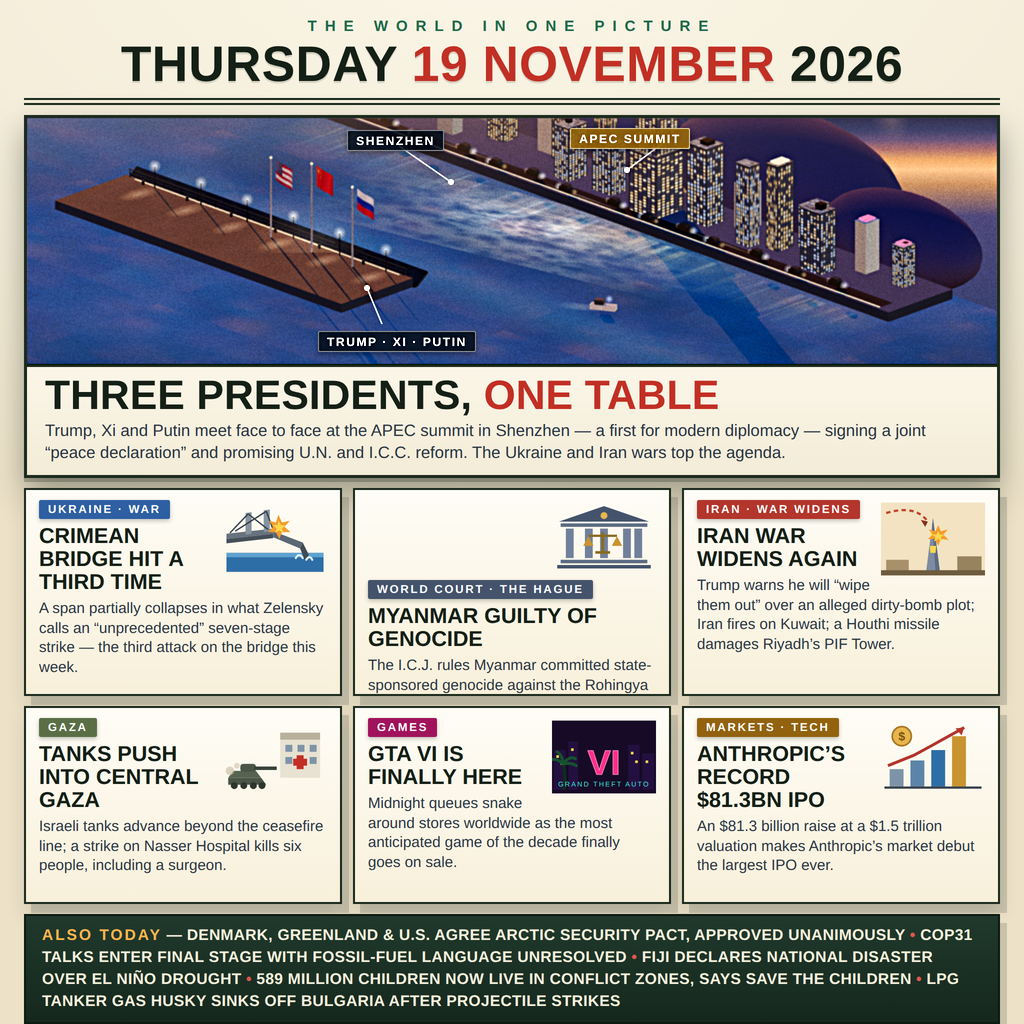
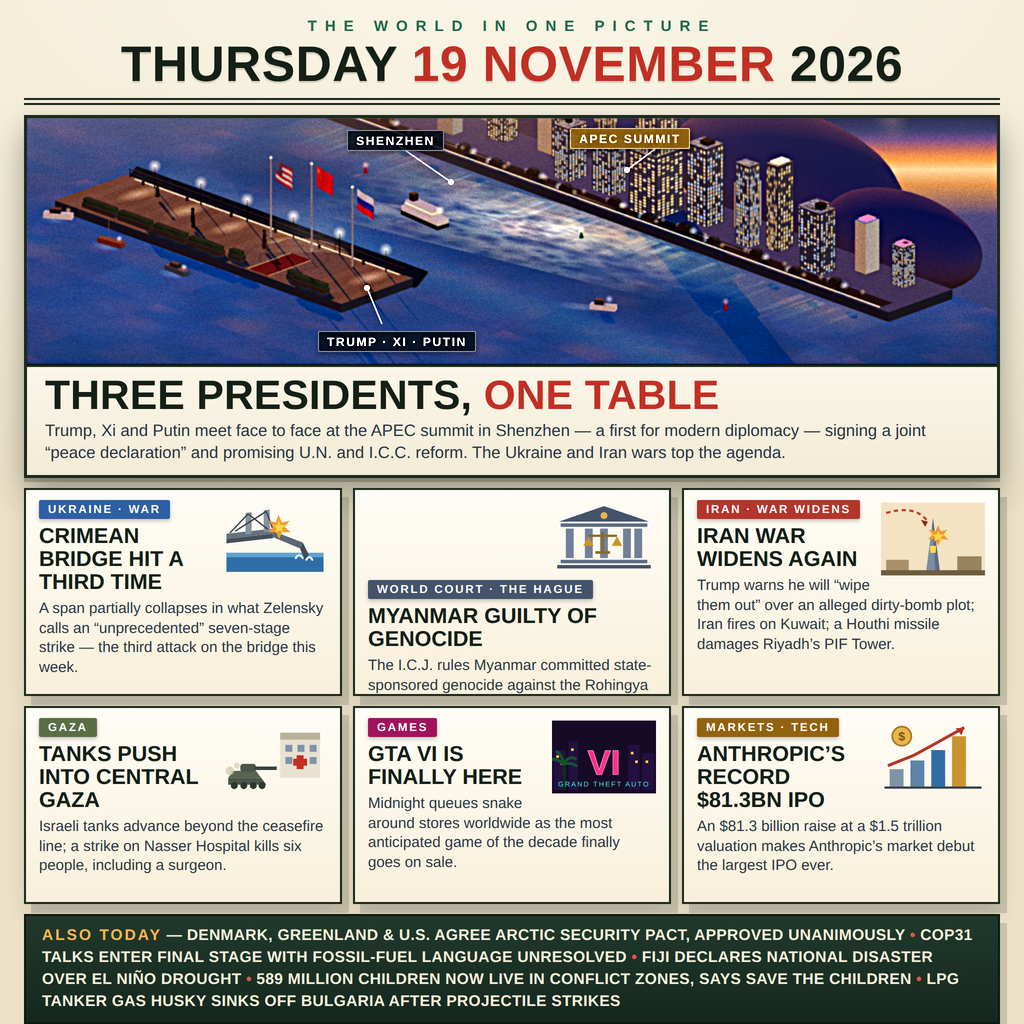
Photoreal composition round: promenade life, mid-bay scale, deeper dusk
- Promenade: patterned plaza disc under the flags, red carpet with
  gold trim, hedge planters along the landward edge, five figure
  silhouettes with a press tripod, stronger lamp pools, zoned stone
- Mid-bay: moored boats with lamps and reflection smears, a lit
  ferry crossing with a V wake, red/green channel buoys
- Far shore: dotted streetlight line along the motorcade boulevard
- Dusk drama: richer sunset saturation in the sky band and PMREM
  equirect, deeper/cooler water against the warm sky, bolder glint
- Finish: hero unsharp A/B-tested at k=1.5 vs 1.4 — 1.5 kept
  (crisper edges, no halo overshoot on scanline probes)
- entry.png 999,012 B, deterministic: two pipeline runs and two
  main.ts runs byte-identical; diff vs previous entry confined to
  the hero frame (x 24-999, y 115-365)

diff --git a/poster.html b/poster.html
@@ -43,7 +43,7 @@
     background: linear-gradient(180deg, #2c3a63 0%, #b06a4e 55%, #26343e 100%);
   }
   .hero-art canvas { position: absolute; inset: 0; width: 100%; height: 100%; display: block;
-    filter: blur(0.5px) saturate(1.05) contrast(1.01); }
+    filter: blur(0.5px) saturate(1.14) contrast(1.03); }
   .hero-art .grain {
     position: absolute; inset: 0; z-index: 1; pointer-events: none;
     opacity: .34; mix-blend-mode: overlay; background-repeat: repeat;
@@ -406,17 +406,17 @@ function buildScene() {
     const grad = sg.createLinearGradient(0, 0, 0, 512);
     grad.addColorStop(0.0, '#1d2447');
     grad.addColorStop(0.05, '#2c3560');
-    grad.addColorStop(0.09, '#5a4a72');
-    grad.addColorStop(0.13, '#a86a68');
-    grad.addColorStop(0.17, '#f0a868');
-    grad.addColorStop(0.21, '#ffc98c');
-    grad.addColorStop(0.27, '#c98a5e');
+    grad.addColorStop(0.09, '#66487c');
+    grad.addColorStop(0.13, '#c06a5c');
+    grad.addColorStop(0.17, '#ff9e50');
+    grad.addColorStop(0.21, '#ffd9a0');
+    grad.addColorStop(0.27, '#dd8f52');
     grad.addColorStop(0.4, '#4a4470');
     grad.addColorStop(1.0, '#2c3a63');
     sg.fillStyle = grad; sg.fillRect(0, 0, 1024, 512);
-    const glow = sg.createRadialGradient(430, 86, 8, 430, 86, 190);
-    glow.addColorStop(0, 'rgba(255,232,180,0.95)');
-    glow.addColorStop(0.3, 'rgba(255,200,125,0.5)');
+    const glow = sg.createRadialGradient(430, 86, 8, 430, 86, 215);
+    glow.addColorStop(0, 'rgba(255,234,185,1.0)');
+    glow.addColorStop(0.3, 'rgba(255,198,120,0.58)');
     glow.addColorStop(1, 'rgba(255,180,100,0)');
     sg.fillStyle = glow; sg.fillRect(0, 0, 1024, 512);
     /* thin cloud bands inside the visible strip, lit from below */
@@ -447,8 +447,8 @@ function buildScene() {
     const grad = eg.createLinearGradient(0, 0, 0, 256);
     grad.addColorStop(0, '#2c3560');
     grad.addColorStop(0.44, '#6a7aa8');
-    grad.addColorStop(0.56, '#f0b478');
-    grad.addColorStop(0.64, '#c98f66');
+    grad.addColorStop(0.56, '#ffab5e');
+    grad.addColorStop(0.64, '#dd8f52');
     grad.addColorStop(1, '#1d2733');
     eg.fillStyle = grad; eg.fillRect(0, 0, 512, 256);
     const blob = eg.createRadialGradient(215, 140, 2, 215, 140, 62);
@@ -569,7 +569,7 @@ function buildScene() {
   const wc = document.createElement('canvas'); wc.width = wc.height = 512;
   {
     const g2 = wc.getContext('2d');
-    mottle(g2, 512, '#256f9d', [
+    mottle(g2, 512, '#1f6391', [
       ['#174d73', 0.18, 40, 130, 26],
       ['#3585b5', 0.2, 30, 100, 22],
       ['#1d5f7d', 0.14, 50, 150, 18],
@@ -669,11 +669,11 @@ function buildScene() {
       tg.beginPath(); tg.arc(cx, cy, r, 0, 7); tg.fill();
     };
     for (let x = -24; x <= 24; x += 3.4) {
-      blob(x, 0.4, 5.4, '7,32,58', 0.16);           // deep channel
-      blob(x, -6.4, 3.6, '232,150,84', 0.12);       // skyline reflection
+      blob(x, 0.4, 5.4, '7,32,58', 0.2);           // deep channel
+      blob(x, -6.4, 3.6, '232,150,84', 0.16);       // skyline reflection
       blob(x, 6.6, 3.2, '70,150,150', 0.13);        // near-shore shallows
     }
-    blob(2.5, -6.6, 4.4, '255,176,102', 0.15);      // afterglow pool
+    blob(2.5, -6.6, 4.4, '255,176,102', 0.19);      // afterglow pool
     /* individual light streaks: each lit tower and crown throws a
        broken reflection down the water toward the viewer, the way
        shore lights smear across a real bay at dusk */
@@ -728,7 +728,7 @@ function buildScene() {
     const glintTex = new THREE.CanvasTexture(gc2);
     glintTex.colorSpace = THREE.SRGBColorSpace;
     const glint = new THREE.Mesh(new THREE.PlaneGeometry(36, 10.5),
-      new THREE.MeshBasicMaterial({ map: glintTex, transparent: true, opacity: 0.44,
+      new THREE.MeshBasicMaterial({ map: glintTex, transparent: true, opacity: 0.52,
         blending: THREE.AdditiveBlending, depthWrite: false }));
     glint.rotation.x = -Math.PI / 2;
     glint.rotation.z = 0.18;
@@ -737,7 +737,7 @@ function buildScene() {
     scene.add(glint);
     /* a narrower, brighter core where the sun's path crosses the bay */
     const glintCore = new THREE.Mesh(new THREE.PlaneGeometry(18, 4.5),
-      new THREE.MeshBasicMaterial({ map: glintTex, transparent: true, opacity: 0.45,
+      new THREE.MeshBasicMaterial({ map: glintTex, transparent: true, opacity: 0.55,
         blending: THREE.AdditiveBlending, depthWrite: false }));
     glintCore.rotation.x = -Math.PI / 2;
     glintCore.rotation.z = 0.18;
@@ -767,11 +767,17 @@ function buildScene() {
     const dc = document.createElement('canvas'); dc.width = 512; dc.height = 256;
     const dg = dc.getContext('2d');
     const drng = mulberry32(4451);
-    mottle(dg, 512, '#4e4a48', [
-      ['#3c3835', 0.25, 30, 110, 22],
-      ['#625c56', 0.2, 24, 90, 18],
-      ['#57504a', 0.18, 16, 60, 20],
-    ], drng, ['#8a8078', 0.22, 300, 2.2]);
+    mottle(dg, 512, '#565149', [
+      ['#413e3a', 0.25, 30, 110, 22],
+      ['#6a635b', 0.2, 24, 90, 18],
+      ['#5d5850', 0.18, 16, 60, 20],
+    ], drng, ['#948a7e', 0.22, 300, 2.2]);
+    /* alternate slabs carry a whisper more or less light, so the
+       paving reads as laid stone zones, not one poured sheet */
+    for (let sx = 0; sx < 512; sx += 64) {
+      dg.fillStyle = (sx / 64) % 2 ? 'rgba(255,240,214,0.05)' : 'rgba(10,10,16,0.05)';
+      dg.fillRect(sx, 0, 64, 256);
+    }
     dg.strokeStyle = 'rgba(16,14,12,0.35)'; dg.lineWidth = 2;
     for (let x = 0; x <= 512; x += 64) { dg.beginPath(); dg.moveTo(x, 0); dg.lineTo(x, 256); dg.stroke(); }
     dg.beginPath(); dg.moveTo(0, 128); dg.lineTo(512, 128); dg.stroke();
@@ -811,7 +817,7 @@ function buildScene() {
     scene.add(bank);
     const foamTex = glowTexture('rgba(235,245,255,0.8)', 'rgba(235,245,255,0)');
     const foam = new THREE.Mesh(new THREE.PlaneGeometry(26.4, 0.55),
-      new THREE.MeshBasicMaterial({ map: foamTex, transparent: true, opacity: 0.16,
+      new THREE.MeshBasicMaterial({ map: foamTex, transparent: true, opacity: 0.22,
         blending: THREE.AdditiveBlending, depthWrite: false }));
     foam.rotation.x = -Math.PI / 2;
     foam.position.set(-13, 0.325, 7.95);
@@ -998,18 +1004,31 @@ function buildScene() {
     });
   }
 
+  /* streetlights along the far waterfront: a dotted line of warm
+     lamps between the motorcade road and the tower bases, so the
+     shore reads as a lit boulevard, not a silhouette */
+  {
+    const srng2 = mulberry32(44500);
+    for (let x = -23.5; x <= 23.5; x += 3.6) {
+      const jx = x + (srng2() - 0.5) * 0.8;
+      const dot = glowSprite(srng2() < 0.75 ? warmGlowTex : coolGlowTex, 0.42, 0.5);
+      dot.position.set(jx, 1.52, -8.55);
+      scene.add(dot);
+    }
+  }
+
   /* lamps along the near promenade */
   {
     const poleMat = std(0x22262e, 0.6, 0.4);
     const poolTex = glowTexture('rgba(255,205,130,0.85)', 'rgba(255,150,60,0)');
     for (let x = -23; x <= -2; x += 4.2) {
       cyl(0.035, 0.045, 1.5, poleMat, x, 1.65, 9.45);
-      const lamp = glowSprite(warmGlowTex, 0.85, 0.75);
+      const lamp = glowSprite(warmGlowTex, 0.9, 0.88);
       lamp.position.set(x, 2.45, 9.45);
       scene.add(lamp);
       /* each lamp spills a pool of light across the wet stone */
-      const pool = new THREE.Mesh(new THREE.PlaneGeometry(1.7, 3.4),
-        new THREE.MeshBasicMaterial({ map: poolTex, transparent: true, opacity: 0.34,
+      const pool = new THREE.Mesh(new THREE.PlaneGeometry(1.9, 3.8),
+        new THREE.MeshBasicMaterial({ map: poolTex, transparent: true, opacity: 0.44,
           blending: THREE.AdditiveBlending, depthWrite: false }));
       pool.rotation.x = -Math.PI / 2;
       pool.position.set(x, 0.925, 10.9);
@@ -1098,6 +1117,221 @@ function buildScene() {
     const plaza = glowSprite(warmGlowTex, 8.5, 0.16);
     plaza.position.set(-7.9, 1.7, 10.1);
     scene.add(plaza);
+  }
+
+  /* ---------- promenade life: plaza, carpet, planting, people ----
+     The deck was one empty sheet of stone; a summit photograph
+     would show a patterned plaza under the flags, a red carpet
+     running to the venue door, planters along the back edge and
+     the press corps silhouetted against the water. Everything is
+     small, dark and low — texture and scale, not clutter. */
+  {
+    /* patterned plaza: concentric rings and radial joints painted
+       on a disc laid over the deck beneath the flag poles */
+    const pc = document.createElement('canvas'); pc.width = pc.height = 256;
+    const pg = pc.getContext('2d');
+    mottle(pg, 256, '#5d574f', [
+      ['#4a4640', 0.22, 20, 70, 16],
+      ['#6e675e', 0.18, 16, 55, 14],
+    ], mulberry32(1711), ['#9a9084', 0.2, 200, 2]);
+    pg.strokeStyle = 'rgba(18,16,14,0.4)';
+    for (const r of [42, 78, 112]) {
+      pg.lineWidth = r === 78 ? 5 : 2.5;
+      pg.beginPath(); pg.arc(128, 128, r, 0, 7); pg.stroke();
+    }
+    pg.lineWidth = 2;
+    for (let i = 0; i < 12; i++) {
+      const a = i / 12 * Math.PI * 2;
+      pg.beginPath();
+      pg.moveTo(128 + Math.cos(a) * 42, 128 + Math.sin(a) * 42);
+      pg.lineTo(128 + Math.cos(a) * 126, 128 + Math.sin(a) * 126);
+      pg.stroke();
+    }
+    pg.fillStyle = 'rgba(255,214,150,0.10)';
+    pg.beginPath(); pg.arc(128, 128, 40, 0, 7); pg.fill();
+    const plazaTex = new THREE.CanvasTexture(pc);
+    plazaTex.colorSpace = THREE.SRGBColorSpace;
+    const plazaDisc = new THREE.Mesh(new THREE.CircleGeometry(3.6, 40),
+      new THREE.MeshStandardMaterial({ map: plazaTex, roughness: 0.45,
+        metalness: 0.05, envMapIntensity: 0.7 }));
+    plazaDisc.rotation.x = -Math.PI / 2;
+    plazaDisc.position.set(-7.9, 0.925, 11.9);
+    plazaDisc.receiveShadow = true;
+    scene.add(plazaDisc);
+
+    /* the red carpet: from the flag plaza toward the venue door
+       at the deck's landward edge, gold trim down both sides */
+    const carpet = new THREE.Mesh(new THREE.PlaneGeometry(1.7, 3.9), std(0x7e1f24, 0.92));
+    carpet.rotation.x = -Math.PI / 2;
+    carpet.position.set(-7.75, 0.928, 13.35);
+    carpet.receiveShadow = true;
+    scene.add(carpet);
+    const trimMat = new THREE.MeshBasicMaterial({ color: 0xc9a24d });
+    for (const dx of [-0.92, 0.92]) {
+      const trim = new THREE.Mesh(new THREE.PlaneGeometry(0.07, 3.9), trimMat);
+      trim.rotation.x = -Math.PI / 2;
+      trim.position.set(-7.75 + dx, 0.93, 13.35);
+      scene.add(trim);
+    }
+
+    /* planters with clipped hedges along the landward edge and
+       flanking the carpet's end — dark green blocks that give the
+       deck a back wall and the eye a scale reference */
+    const hc = document.createElement('canvas'); hc.width = hc.height = 128;
+    const hg = hc.getContext('2d');
+    mottle(hg, 128, '#2e4630', [
+      ['#1e3322', 0.3, 10, 40, 22],
+      ['#42684a', 0.25, 8, 30, 20],
+      ['#38543c', 0.2, 12, 44, 14],
+    ], mulberry32(7331), ['#5d8263', 0.25, 220, 1.8]);
+    const hedgeTex = new THREE.CanvasTexture(hc);
+    hedgeTex.colorSpace = THREE.SRGBColorSpace;
+    const hedgeMat = new THREE.MeshStandardMaterial({ map: hedgeTex, roughness: 0.95 });
+    const planterMat = std(0x3a3733, 0.8);
+    function planter(x, z, w) {
+      box(w, 0.34, 0.52, planterMat, x, 1.07, z);
+      const hedge = box(w - 0.12, 0.3, 0.42, hedgeMat, x, 1.38, z);
+      hedge.castShadow = false;
+    }
+    for (const px of [-22.5, -19.3, -16.1, -12.9, -3.4]) planter(px, 14.85, 2.9);
+    planter(-10.4, 14.6, 1.1);
+    planter(-5.1, 14.6, 1.1);
+
+    /* people: small dark silhouettes — two photographers working
+       a tripod by the flags, a pair mid-deck, one staffer near the
+       railing. The low sun throws their shadows across the stone. */
+    const figMat = std(0x15171f, 0.92);
+    const figMat2 = std(0x3d1f22, 0.92);
+    function figure(x, z, mat, s = 1) {
+      const g = new THREE.Group();
+      const body = new THREE.Mesh(new THREE.CylinderGeometry(0.085 * s, 0.125 * s, 0.66 * s, 8), mat);
+      body.position.y = 0.52 * s;
+      body.castShadow = true;
+      g.add(body);
+      const head = new THREE.Mesh(new THREE.SphereGeometry(0.105 * s, 10, 8), mat);
+      head.position.y = 0.97 * s;
+      head.castShadow = true;
+      g.add(head);
+      g.position.set(x, 0.91, z);
+      scene.add(g);
+    }
+    figure(-10.9, 11.6, figMat);
+    figure(-10.15, 12.35, figMat2);
+    figure(-16.8, 12.2, figMat, 1.04);
+    figure(-16.05, 12.9, figMat, 0.97);
+    figure(-21.5, 10.7, figMat, 1.02);
+    /* the tripod between the photographers and the flags */
+    const triMat = std(0x0f1116, 0.7, 0.3);
+    for (let i = 0; i < 3; i++) {
+      const a = i / 3 * Math.PI * 2 + 0.5;
+      const leg = new THREE.Mesh(new THREE.CylinderGeometry(0.016, 0.016, 0.85, 6), triMat);
+      leg.position.set(-10.55 + Math.cos(a) * 0.14, 1.3, 11.9 + Math.sin(a) * 0.14);
+      leg.rotation.z = Math.cos(a) * 0.3;
+      leg.rotation.x = -Math.sin(a) * 0.3;
+      scene.add(leg);
+    }
+    box(0.2, 0.13, 0.14, triMat, -10.55, 1.76, 11.9);
+  }
+
+  /* ---------- mid-bay life: moored boats, a ferry, buoys ---------
+     Scale cues between the two shores: small boats riding at the
+     promenade's water edge, a lit ferry crossing with a V wake,
+     and channel buoys with their light smeared on the water. */
+  {
+    const smearTex = glowTexture('rgba(190,215,255,0.6)', 'rgba(190,215,255,0)');
+    function smear(x, z, w, l, opacity) {
+      const m = new THREE.Mesh(new THREE.PlaneGeometry(w, l),
+        new THREE.MeshBasicMaterial({ map: smearTex, transparent: true, opacity,
+          blending: THREE.AdditiveBlending, depthWrite: false }));
+      m.rotation.x = -Math.PI / 2;
+      m.position.set(x, 0.325, z);
+      m.renderOrder = 2;
+      scene.add(m);
+    }
+    /* moored boats: tied up along the promenade's near edge and
+       off its end, where the foreground water gives them room to
+       read — hull, cabin or mast, a lamp, a smeared reflection */
+    const hullCols = [0xd8d5cc, 0x6f4234, 0x39586b];
+    [[-24.8, 16.4, 0.55], [-19.0, 17.4, 0.12], [-12.5, 17.9, -0.05]].forEach(([bx, bz, rot], i) => {
+      const grp = new THREE.Group();
+      const hull = box(1.9, 0.34, 0.52, std(hullCols[i], 0.55, 0.15), 0, 0.18, 0, grp);
+      hull.castShadow = false;
+      if (i === 1) {
+        const mast = cyl(0.02, 0.025, 1.3, std(0x8a8578, 0.6, 0.3), -0.2, 0.95, 0, grp);
+        mast.castShadow = false;
+      } else {
+        const cab = box(0.7, 0.3, 0.4, std(0x2e3841, 0.6, 0.2), -0.18, 0.48, 0, grp);
+        cab.castShadow = false;
+      }
+      const lampDot = glowSprite(warmGlowTex, 0.42, 0.75);
+      lampDot.position.set(0.65, 0.58, 0); grp.add(lampDot);
+      grp.position.set(bx, 0.3, bz);
+      grp.rotation.y = rot;
+      scene.add(grp);
+      smear(bx, bz + 0.45, 2.3, 1.5, 0.34);
+    });
+
+    /* the ferry: white hull, a lit window strip, crossing the bay
+       left to right with its wake fanning out behind it */
+    const fgrp = new THREE.Group();
+    const fBand = box(3.7, 0.3, 1.0, std(0x1e3844, 0.6, 0.2), 0, 0.3, 0, fgrp);
+    fBand.castShadow = false;
+    const fHull = box(3.7, 0.34, 0.94, std(0xe9e6de, 0.5, 0.1), 0, 0.6, 0, fgrp);
+    fHull.castShadow = false;
+    const fDeck = box(2.7, 0.46, 0.8, std(0xdcd8cf, 0.55, 0.1), -0.15, 1.0, 0, fgrp);
+    fDeck.castShadow = false;
+    const winStrip = new THREE.Mesh(new THREE.BoxGeometry(2.72, 0.16, 0.82),
+      new THREE.MeshBasicMaterial({ color: 0xffd9a0 }));
+    winStrip.position.set(-0.15, 1.04, 0); fgrp.add(winStrip);
+    const funnel = box(0.42, 0.5, 0.42, std(0x2a2e33, 0.7), -1.15, 1.45, 0, fgrp);
+    funnel.castShadow = false;
+    const mastLight = glowSprite(warmGlowTex, 0.6, 0.85);
+    mastLight.position.set(1.55, 1.35, 0); fgrp.add(mastLight);
+    const sternLight = glowSprite(coolGlowTex, 0.45, 0.7);
+    sternLight.position.set(-1.9, 0.75, 0); fgrp.add(sternLight);
+    fgrp.position.set(-7.5, 0.3, 0.4);
+    fgrp.rotation.y = -0.1;
+    scene.add(fgrp);
+    const fwC = document.createElement('canvas'); fwC.width = 128; fwC.height = 64;
+    const fwg = fwC.getContext('2d');
+    const fwgr = fwg.createRadialGradient(64, 32, 2, 64, 32, 62);
+    fwgr.addColorStop(0, 'rgba(230,244,255,0.5)');
+    fwgr.addColorStop(1, 'rgba(230,244,255,0)');
+    fwg.fillStyle = fwgr; fwg.fillRect(0, 0, 128, 64);
+    const fwTex = new THREE.CanvasTexture(fwC);
+    function wakePlane(w, l, x, z, rz, opacity) {
+      const m = new THREE.Mesh(new THREE.PlaneGeometry(w, l),
+        new THREE.MeshBasicMaterial({ map: fwTex, transparent: true, opacity, depthWrite: false }));
+      m.rotation.x = -Math.PI / 2;
+      m.rotation.z = rz;
+      m.position.set(x, 0.335, z);
+      m.renderOrder = 2;
+      scene.add(m);
+    }
+    wakePlane(5.4, 1.6, -11.3, 0.85, -0.1, 0.5);          // foam trail
+    wakePlane(3.6, 0.42, -10.9, -0.35, 0.38, 0.38);       // V arm, far side
+    wakePlane(3.6, 0.42, -10.9, 2.05, -0.58, 0.38);       // V arm, near side
+
+    /* channel buoys: red and green, light carried down the water */
+    const redGlow = glowTexture('rgba(255,100,80,0.9)', 'rgba(255,60,40,0)');
+    const grnGlow = glowTexture('rgba(110,255,170,0.9)', 'rgba(40,220,130,0)');
+    for (const [bx, bz, col, gtex] of [[-16.5, -3.2, 0xa33327, redGlow],
+                                       [1.5, -4.8, 0x1f7a4d, grnGlow],
+                                       [17.0, -2.4, 0xa33327, redGlow]]) {
+      const buoy = new THREE.Mesh(new THREE.CylinderGeometry(0.05, 0.17, 0.44, 10), std(col, 0.6, 0.2));
+      buoy.position.set(bx, 0.48, bz);
+      scene.add(buoy);
+      const bl = glowSprite(gtex, 0.5, 0.8);
+      bl.position.set(bx, 0.84, bz);
+      scene.add(bl);
+      const streak = new THREE.Mesh(new THREE.PlaneGeometry(0.34, 1.5),
+        new THREE.MeshBasicMaterial({ map: gtex, transparent: true, opacity: 0.22,
+          blending: THREE.AdditiveBlending, depthWrite: false }));
+      streak.rotation.x = -Math.PI / 2;
+      streak.position.set(bx, 0.328, bz + 0.7);
+      streak.renderOrder = 2;
+      scene.add(streak);
+    }
   }
 
   /* a small patrol boat crossing the lower bay, wake behind it */

diff --git a/sharpen_hero.py b/sharpen_hero.py
@@ -23,7 +23,7 @@ import sys
 import cv2
 
 HERO_X0, HERO_Y0, HERO_X1, HERO_Y1 = 27, 119, 997, 365
-STRENGTH = 1.4  # picked by inspection: crisp windows/flags, no halos
+STRENGTH = 1.5  # A/B-tested vs 1.4: crisper edges, no halo overshoot
 BLUR_SIGMA = 3.0
 
 
